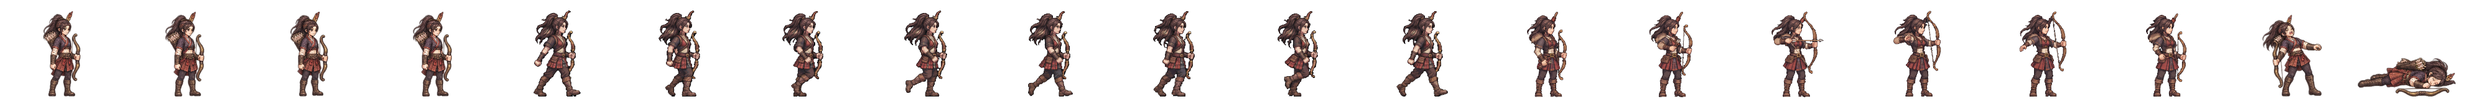
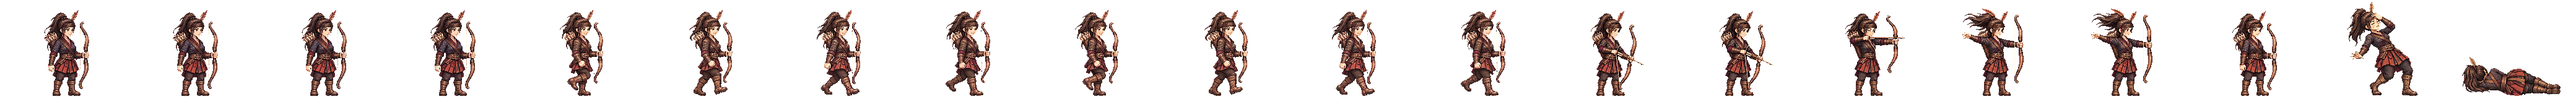
고구려 미르 전투 띠를 새 방식으로: 서기·걷기(뒤 절반을 앞 절반으로)·활 쏘기 네 칸·개성 동작·쓰러짐·맞음 (Codex 그림 · 활 쏘기는 한 번 다시 받음 · 활 길이 서기의 75~93%) · 옛 _hd 연결 지움
Claude-Session: https://claude.ai/code/session_01TRiuN7s6aDfSnaHxrkctmU

diff --git a/src/realm/data/spritePx.ts b/src/realm/data/spritePx.ts
@@ -1,3 +1,3 @@
 /** public/realm/anim-px/manifest.json 의 사본 — tools/sprite-normalize.mjs 가 만든다 (손으로 고치지 말 것). 칸 [가로, 세로] · feet = 발 줄(칸 위에서 y) · bodyPx = 서 있는 몸 키 */
 import { expandManifest } from './sprite-manifest.ts'
-export const SPRITE_PX: Readonly<Record<string, { readonly cell: readonly [number, number]; readonly feet: number; readonly bodyPx: number; readonly kind: 'general' | 'soldier' | 'folk' | 'crowd'; readonly cells: number }>> = expandManifest<{ readonly cell: readonly [number, number]; readonly feet: number; readonly bodyPx: number; readonly kind: 'general' | 'soldier' | 'folk' | 'crowd'; readonly cells: number }>([{"cell":[166,128],"feet":126,"bodyPx":124,"kind":"soldier","cells":20},{"cell":[116,128],"feet":126,"bodyPx":117,"kind":"soldier","cells":20},{"cell":[127,128],"feet":126,"bodyPx":116,"kind":"soldier","cells":20},{"cell":[269,128],"feet":126,"bodyPx":126,"kind":"soldier","cells":20},{"cell":[503,128],"feet":126,"bodyPx":127,"kind":"soldier","cells":20},{"cell":[614,128],"feet":126,"bodyPx":126,"kind":"soldier","cells":20},{"cell":[200,160],"feet":156,"bodyPx":138,"kind":"general","cells":20},{"cell":[208,160],"feet":155,"bodyPx":138,"kind":"general","cells":20},{"cell":[208,160],"feet":154,"bodyPx":138,"kind":"general","cells":20},{"cell":[304,160],"feet":155,"bodyPx":135,"kind":"general","cells":20},{"cell":[184,160],"feet":156,"bodyPx":138,"kind":"general","cells":20},{"cell":[208,160],"feet":154,"bodyPx":136,"kind":"general","cells":20},{"cell":[232,160],"feet":156,"bodyPx":138,"kind":"general","cells":20},{"cell":[208,160],"feet":156,"bodyPx":138,"kind":"general","cells":20},{"cell":[168,160],"feet":156,"bodyPx":124,"kind":"general","cells":20},{"cell":[216,160],"feet":156,"bodyPx":130,"kind":"general","cells":20},{"cell":[200,160],"feet":156,"bodyPx":116,"kind":"general","cells":20},{"cell":[192,160],"feet":156,"bodyPx":138,"kind":"general","cells":20},{"cell":[208,160],"feet":154,"bodyPx":135,"kind":"general","cells":20},{"cell":[280,160],"feet":156,"bodyPx":138,"kind":"general","cells":20},{"cell":[232,160],"feet":156,"bodyPx":134,"kind":"general","cells":20},{"cell":[144,160],"feet":156,"bodyPx":70,"kind":"general","cells":20},{"cell":[208,160],"feet":156,"bodyPx":70,"kind":"general","cells":20},{"cell":[192,160],"feet":156,"bodyPx":70,"kind":"general","cells":20},{"cell":[240,160],"feet":155,"bodyPx":138,"kind":"general","cells":20},{"cell":[192,160],"feet":156,"bodyPx":128,"kind":"general","cells":20},{"cell":[208,160],"feet":154,"bodyPx":137,"kind":"general","cells":20},{"cell":[216,160],"feet":156,"bodyPx":138,"kind":"general","cells":20},{"cell":[208,160],"feet":156,"bodyPx":134,"kind":"general","cells":20},{"cell":[208,160],"feet":154,"bodyPx":130,"kind":"general","cells":20},{"cell":[248,160],"feet":156,"bodyPx":138,"kind":"general","cells":20},{"cell":[248,160],"feet":155,"bodyPx":138,"kind":"general","cells":20},{"cell":[192,160],"feet":155,"bodyPx":138,"kind":"general","cells":20},{"cell":[192,160],"feet":156,"bodyPx":124,"kind":"general","cells":20},{"cell":[208,160],"feet":154,"bodyPx":131,"kind":"general","cells":20},{"cell":[240,160],"feet":156,"bodyPx":138,"kind":"general","cells":20},{"cell":[232,160],"feet":156,"bodyPx":73,"kind":"general","cells":20},{"cell":[224,160],"feet":156,"bodyPx":138,"kind":"general","cells":20},{"cell":[224,160],"feet":156,"bodyPx":128,"kind":"general","cells":20},{"cell":[176,160],"feet":156,"bodyPx":129,"kind":"general","cells":20},{"cell":[208,160],"feet":154,"bodyPx":139,"kind":"general","cells":20},{"cell":[232,160],"feet":155,"bodyPx":138,"kind":"general","cells":20},{"cell":[208,160],"feet":156,"bodyPx":132,"kind":"general","cells":20},{"cell":[184,160],"feet":156,"bodyPx":122,"kind":"general","cells":20},{"cell":[280,160],"feet":155,"bodyPx":133,"kind":"general","cells":20},{"cell":[176,160],"feet":156,"bodyPx":70,"kind":"general","cells":20},{"cell":[186,128],"feet":126,"bodyPx":127,"kind":"soldier","cells":20},{"cell":[298,128],"feet":126,"bodyPx":126,"kind":"soldier","cells":20},{"cell":[82,128],"feet":126,"bodyPx":114,"kind":"folk","cells":8},{"cell":[134,128],"feet":126,"bodyPx":119,"kind":"soldier","cells":20},{"cell":[380,128],"feet":126,"bodyPx":124,"kind":"soldier","cells":20},{"cell":[114,128],"feet":126,"bodyPx":115,"kind":"soldier","cells":20},{"cell":[122,128],"feet":126,"bodyPx":114,"kind":"soldier","cells":20},{"cell":[254,128],"feet":126,"bodyPx":128,"kind":"soldier","cells":20},{"cell":[438,128],"feet":126,"bodyPx":126,"kind":"soldier","cells":20},{"cell":[88,128],"feet":126,"bodyPx":113,"kind":"folk","cells":8},{"cell":[100,128],"feet":126,"bodyPx":115,"kind":"folk","cells":8},{"cell":[108,128],"feet":126,"bodyPx":115,"kind":"folk","cells":8},{"cell":[63,128],"feet":126,"bodyPx":113,"kind":"folk","cells":8},{"cell":[69,96],"feet":96,"bodyPx":96,"kind":"crowd","cells":1},{"cell":[54,96],"feet":96,"bodyPx":96,"kind":"crowd","cells":1},{"cell":[47,96],"feet":96,"bodyPx":96,"kind":"crowd","cells":1},{"cell":[49,96],"feet":96,"bodyPx":96,"kind":"crowd","cells":1},{"cell":[57,96],"feet":96,"bodyPx":96,"kind":"crowd","cells":1},{"cell":[55,96],"feet":96,"bodyPx":96,"kind":"crowd","cells":1},{"cell":[45,96],"feet":96,"bodyPx":96,"kind":"crowd","cells":1},{"cell":[53,96],"feet":96,"bodyPx":96,"kind":"crowd","cells":1},{"cell":[64,96],"feet":96,"bodyPx":96,"kind":"crowd","cells":1},{"cell":[264,160],"feet":156,"bodyPx":138,"kind":"general","cells":20},{"cell":[184,160],"feet":156,"bodyPx":124,"kind":"general","cells":20},{"cell":[256,160],"feet":156,"bodyPx":138,"kind":"general","cells":20},{"cell":[208,160],"feet":154,"bodyPx":134,"kind":"general","cells":20},{"cell":[224,160],"feet":156,"bodyPx":133,"kind":"general","cells":20},{"cell":[184,160],"feet":156,"bodyPx":137,"kind":"general","cells":20},{"cell":[176,160],"feet":156,"bodyPx":130,"kind":"general","cells":20},{"cell":[216,160],"feet":156,"bodyPx":134,"kind":"general","cells":20},{"cell":[216,160],"feet":156,"bodyPx":132,"kind":"general","cells":20},{"cell":[288,160],"feet":156,"bodyPx":138,"kind":"general","cells":20},{"cell":[192,160],"feet":156,"bodyPx":118,"kind":"general","cells":20},{"cell":[208,160],"feet":154,"bodyPx":132,"kind":"general","cells":20},{"cell":[208,160],"feet":154,"bodyPx":128,"kind":"general","cells":20},{"cell":[240,160],"feet":156,"bodyPx":128,"kind":"general","cells":20},{"cell":[184,160],"feet":156,"bodyPx":132,"kind":"general","cells":20},{"cell":[208,160],"feet":156,"bodyPx":123,"kind":"general","cells":20},{"cell":[192,160],"feet":156,"bodyPx":135,"kind":"general","cells":20},{"cell":[176,160],"feet":156,"bodyPx":116,"kind":"general","cells":20},{"cell":[272,160],"feet":156,"bodyPx":138,"kind":"general","cells":20},{"cell":[176,160],"feet":156,"bodyPx":138,"kind":"general","cells":20},{"cell":[176,160],"feet":156,"bodyPx":122,"kind":"general","cells":20},{"cell":[232,160],"feet":156,"bodyPx":127,"kind":"general","cells":20},{"cell":[184,160],"feet":156,"bodyPx":134,"kind":"general","cells":20},{"cell":[168,160],"feet":156,"bodyPx":138,"kind":"general","cells":20},{"cell":[176,160],"feet":156,"bodyPx":137,"kind":"general","cells":20},{"cell":[184,160],"feet":156,"bodyPx":133,"kind":"general","cells":20}],[["axe",0],["bandit-chief",1],["bandit-club",2],["boat",3],["bow",4],["crossbow",5],["gen-adogan",6],["gen-alpyeong",7],["gen-ara",8],["gen-areum",8],["gen-aryeong",9],["gen-bakdal",8],["gen-baram",8],["gen-bdanbi",10],["gen-beom",11],["gen-beombal",8],["gen-beomi",8],["gen-bira",12],["gen-biryu",13],["gen-budeul",8],["gen-byeol",8],["gen-daemusin",14],["gen-daeso",15],["gen-dallae2",8],["gen-dalli",8],["gen-damul",16],["gen-danbi",8],["gen-dangung",17],["gen-darae",18],["gen-dokmudeom",8],["gen-duman",19],["gen-eomni",8],["gen-eureum",20],["gen-g-bow",21],["gen-g-spear",22],["gen-g-sword",23],["gen-gaennae",8],["gen-gamsil",24],["gen-gaon",18],["gen-geota",13],["gen-geumbawi",10],["gen-geumha",25],["gen-goeun",8],["gen-gom",8],["gen-gomok",13],["gen-gureum",8],["gen-guryema",17],["gen-gwaeyu",12],["gen-haebi",8],["gen-haedal",6],["gen-haesol",8],["gen-halla",26],["gen-heo",8],["gen-hneoul",27],["gen-hogong",27],["gen-hojin",13],["gen-horselord",28],["gen-hwalmi",29],["gen-hyeokgeose",17],["gen-hyeopbo",6],["gen-irang",8],["gen-jibaekho",30],["gen-jinha",31],["gen-jita",32],["gen-jumong",33],["gen-keundol",7],["gen-maehwa",34],["gen-maenun",17],["gen-malgalgi",8],["gen-mari",35],["gen-maro",30],["gen-maryeo",13],["gen-mdallae",8],["gen-mir",6],["gen-mount",36],["gen-mulbeom",26],["gen-mulsae",26],["gen-musoe",27],["gen-noeul",8],["gen-nuri",8],["gen-ocheongan",37],["gen-odi",8],["gen-odogan",6],["gen-ogan",17],["gen-oi",38],["gen-olddaeso",20],["gen-onjo",39],["gen-pidogan",13],["gen-sagong",40],["gen-sdallae",8],["gen-sincheongan",8],["gen-singwigan",27],["gen-sinneoul",8],["gen-sobeol",41],["gen-soebi",8],["gen-soebo",42],["gen-soenun",40],["gen-sogeumbi",26],["gen-songbi",8],["gen-songyang",43],["gen-sori",8],["gen-soseono",44],["gen-suro",17],["gen-tahae",6],["gen-tneoul",8],["gen-w-bow",21],["gen-w-spear",45],["gen-waechief",13],["gen-wan",27],["gen-yeodogan",13],["gen-yucheongan",8],["gen-yusugan",30],["horse",46],["marine",47],["migrant",48],["militia",49],["pike",50],["pirate-captain",51],["pirate-sword",52],["shield",53],["spear",54],["villager-builder",55],["villager-farmer",56],["villager-porter",57],["villager-woman",58],["crowd-b1",59],["crowd-b2",60],["crowd-b3",61],["crowd-b4",62],["crowd-b5",63],["crowd-b6",64],["crowd-f1",59],["crowd-f2",64],["crowd-f3",65],["crowd-f4",66],["crowd-f5",59],["crowd-f6",67],["gen-dalbit",13],["gen-base-g-07-drunk-warrior",17],["gen-base-g-40-anya-adan",13],["gen-base-w-13-young-archer",8],["gen-base-g-03-sea-trader",35],["gen-base-w-10-pirate-captain",40],["gen-base-w-64-miri-dallae",40],["gen-base-g-41-goja-bau",35],["gen-base-g-42-dokro-garam",68],["gen-base-g-09-farmer-conscript",27],["gen-base-w-02-goguryeo-lady",8],["gen-base-w-17-mahan-pearl-diver",8],["gen-base-g-17-saro-isageum",42],["gen-base-g-18-daegaya-king",69],["gen-base-g-35-dabeol-dalgu",13],["gen-base-g-19-sabeol-veteran",27],["gen-base-w-23-usisan-whale-queen",8],["gen-base-g-36-gammun-gamdol",37],["gen-base-g-20-samul-sea-lord",70],["gen-base-g-37-eumjeup-jeup",10],["gen-base-g-38-chopal-palmae",17],["gen-base-w-75-daegaya-soemoe",8],["gen-base-g-45-dabeol-deulgae",10],["gen-base-g-04-jinhan-giant",13],["gen-base-g-08-veteran",13],["gen-base-w-18-jinhan-salt-widow",8],["gen-base-w-12-court-dancer",71],["gen-base-w-83-gyeonji-beodeul",72],["gen-base-w-05-baekje-queen",18],["gen-base-w-21-baekje-court-dancer",10],["gen-base-g-01-master-smith",73],["gen-base-g-93-jomun-solgae",74],["gen-base-g-57-bihwa-neup",35],["gen-base-w-72-eumjeup-beol",8],["gen-base-w-102-garak-dana",40],["gen-base-g-68-baekje-onnuri",13],["gen-base-w-27-mokji-jinha",6],["gen-base-g-22-ungcheon-gomnae",6],["gen-base-g-23-sangdang-soedal",13],["gen-base-g-24-wansan-onsan",6],["gen-base-g-25-balla-keunmoe",27],["gen-base-g-61-heomcheuk-bawi",27],["gen-base-g-88-wander-soeul",37],["gen-base-w-14-feast-spy",8],["gen-base-g-12-silla-youth",75],["gen-base-w-08-mahan-warrior",8],["gen-base-g-62-beonye-hanul",35],["gen-base-g-63-heomcheuk-beogeum",13],["gen-base-g-84-wander-seoneul",13],["gen-base-w-50-siljik-mulga",27],["gen-base-g-46-uga-nureongso",27],["gen-base-w-80-usan-gangchi",40],["gen-base-g-47-guga-sanyanggae",27],["gen-base-w-76-gampyeong-baetsagong",8],["gen-base-g-05-mahan-chieftain",76],["gen-base-g-58-usan-uhae",13],["gen-base-g-27-maek-maekdol",13],["gen-base-w-53-hwanna-gabi",40],["gen-base-w-29-golpo-janmul",30],["gen-base-g-53-baekje-haeru",6],["gen-base-w-71-yeonna-neoul",8],["gen-base-w-79-yangmaek-solmae",8],["gen-base-w-34-chopal-deulme",8],["gen-base-g-44-maga-malgup",77],["gen-base-w-31-dabeol-dalbit",40],["gen-base-g-51-biryuna-mulgyeol",37],["gen-base-g-48-gwanna-musoe",13],["gen-base-g-32-uga-sodu",12],["gen-base-g-49-goguryeo-sona",78],["gen-base-g-30-gwanna-soemoe",37],["gen-base-g-52-tamna-oreum",10],["gen-base-g-29-yeonna-myeongsol",33],["gen-base-w-56-dongokjeo-sogeum",71],["gen-base-g-54-mokji-mahan",12],["gen-base-g-33-jeoga-metdol",17],["gen-base-w-36-baekje-maena",8],["gen-base-w-38-sangdang-bulmae",40],["gen-base-w-39-gosaburi-galmae",8],["gen-base-w-40-mujin-munui",79],["gen-base-w-41-hwanna-beodeul",80],["gen-base-w-43-uga-nuri",70],["gen-base-w-45-tamna-oreumbi",10],["gen-base-g-60-golbeol-golgae",10],["gen-base-g-61-apdok-ap",27],["gen-base-g-62-gammun-gamnamu",6],["gen-base-g-63-chopal-yeoul",30],["gen-base-g-64-michuhol-sogeumkkun",35],["gen-base-g-65-sangdang-soemangchi",37],["gen-base-g-66-geonma-malbalgup",81],["gen-base-g-67-gosaburi-buri",82],["gen-base-g-68-mujin-bitgoeul",10],["gen-base-g-69-goryong-yong",37],["gen-base-g-70-siljik-pado",35],["gen-base-w-81-byeokjin-byeolbit",8],["gen-base-w-46-geonma-maru",8],["gen-base-w-48-mujin-mudeung",8],["gen-base-g-26-gampyeong-gaetbeol",12],["gen-base-g-60-eupcha-hangyeol",83],["gen-base-g-15-shaman-man",27],["gen-base-g-85-wander-ure",30],["gen-base-g-43-hwanna-amnok",13],["gen-base-g-50-bullae-gwaha",84],["gen-base-g-55-saro-bakdal",13],["gen-base-g-56-haseulla-gwahama",6],["gen-base-w-06-buyeo-huntress",26],["gen-base-w-22-dongye-tiger-huntress",8],["gen-base-w-25-bihwa-priestess",8],["gen-base-w-24-apdok-queen",8],["gen-base-w-61-iseo-sinae",8],["gen-base-w-26-iseo-tomboy-general",8],["gen-base-g-59-yangmaek-maekson",85],["gen-aw1-haebi",37],["gen-aw1-soseono",86],["gen-aw1-gamsil",10],["gen-aw1-mir",87],["gen-aw1-dangung",6],["gen-aw1-ara",37],["gen-aw1-jumong",88],["gen-aw1-onjo",89],["gen-aw1-base-w-83-gyeonji-beodeul",17],["gen-aw1-heo",68],["gen-aw1-base-g-38-chopal-palmae",6],["gen-aw1-base-w-25-bihwa-priestess",90],["gen-aw1-sori",91],["gen-aw1-gomok",6],["gen-aw1-irang",17],["gen-aw1-budeul",91],["gen-aw1-gom",35],["gen-aw1-sdallae",6],["gen-aw1-base-w-13-young-archer",6],["gen-aw1-base-w-36-baekje-maena",92],["gen-aw1-base-g-09-farmer-conscript",68],["gen-aw1-base-w-02-goguryeo-lady",93],["gen-aw1-haedal",10],["gen-aw1-hogong",6],["gen-aw1-maehwa",87],["gen-aw1-base-w-06-buyeo-huntress",12],["gen-aw1-base-w-08-mahan-warrior",37],["gen-aw1-base-w-29-golpo-janmul",37],["gen-aw1-base-w-31-dabeol-dalbit",17],["gen-aw1-base-w-38-sangdang-bulmae",91],["gen-aw1-bira",27],["gen-aw1-base-w-53-hwanna-gabi",91],["gen-aw1-base-w-56-dongokjeo-sogeum",87],["gen-aw1-base-w-72-eumjeup-beol",17],["gen-aw1-bdanbi",91],["gen-aw1-beom",10],["gen-aw1-beombal",10],["gen-aw1-byeol",17],["gen-aw1-dalli",87],["gen-aw1-malgalgi",30],["gen-aw1-sincheongan",27]])
+export const SPRITE_PX: Readonly<Record<string, { readonly cell: readonly [number, number]; readonly feet: number; readonly bodyPx: number; readonly kind: 'general' | 'soldier' | 'folk' | 'crowd'; readonly cells: number }>> = expandManifest<{ readonly cell: readonly [number, number]; readonly feet: number; readonly bodyPx: number; readonly kind: 'general' | 'soldier' | 'folk' | 'crowd'; readonly cells: number }>([{"cell":[166,128],"feet":126,"bodyPx":124,"kind":"soldier","cells":20},{"cell":[116,128],"feet":126,"bodyPx":117,"kind":"soldier","cells":20},{"cell":[127,128],"feet":126,"bodyPx":116,"kind":"soldier","cells":20},{"cell":[269,128],"feet":126,"bodyPx":126,"kind":"soldier","cells":20},{"cell":[503,128],"feet":126,"bodyPx":127,"kind":"soldier","cells":20},{"cell":[614,128],"feet":126,"bodyPx":126,"kind":"soldier","cells":20},{"cell":[200,160],"feet":156,"bodyPx":138,"kind":"general","cells":20},{"cell":[208,160],"feet":155,"bodyPx":138,"kind":"general","cells":20},{"cell":[208,160],"feet":154,"bodyPx":138,"kind":"general","cells":20},{"cell":[304,160],"feet":155,"bodyPx":135,"kind":"general","cells":20},{"cell":[184,160],"feet":156,"bodyPx":138,"kind":"general","cells":20},{"cell":[208,160],"feet":154,"bodyPx":136,"kind":"general","cells":20},{"cell":[232,160],"feet":156,"bodyPx":138,"kind":"general","cells":20},{"cell":[208,160],"feet":156,"bodyPx":138,"kind":"general","cells":20},{"cell":[168,160],"feet":156,"bodyPx":124,"kind":"general","cells":20},{"cell":[216,160],"feet":156,"bodyPx":130,"kind":"general","cells":20},{"cell":[200,160],"feet":156,"bodyPx":116,"kind":"general","cells":20},{"cell":[192,160],"feet":156,"bodyPx":138,"kind":"general","cells":20},{"cell":[208,160],"feet":154,"bodyPx":135,"kind":"general","cells":20},{"cell":[280,160],"feet":156,"bodyPx":138,"kind":"general","cells":20},{"cell":[232,160],"feet":156,"bodyPx":134,"kind":"general","cells":20},{"cell":[144,160],"feet":156,"bodyPx":70,"kind":"general","cells":20},{"cell":[208,160],"feet":156,"bodyPx":70,"kind":"general","cells":20},{"cell":[192,160],"feet":156,"bodyPx":70,"kind":"general","cells":20},{"cell":[240,160],"feet":155,"bodyPx":138,"kind":"general","cells":20},{"cell":[192,160],"feet":156,"bodyPx":128,"kind":"general","cells":20},{"cell":[208,160],"feet":154,"bodyPx":137,"kind":"general","cells":20},{"cell":[216,160],"feet":156,"bodyPx":138,"kind":"general","cells":20},{"cell":[208,160],"feet":156,"bodyPx":134,"kind":"general","cells":20},{"cell":[208,160],"feet":154,"bodyPx":130,"kind":"general","cells":20},{"cell":[248,160],"feet":156,"bodyPx":138,"kind":"general","cells":20},{"cell":[248,160],"feet":155,"bodyPx":138,"kind":"general","cells":20},{"cell":[192,160],"feet":155,"bodyPx":138,"kind":"general","cells":20},{"cell":[192,160],"feet":156,"bodyPx":124,"kind":"general","cells":20},{"cell":[208,160],"feet":154,"bodyPx":131,"kind":"general","cells":20},{"cell":[240,160],"feet":156,"bodyPx":138,"kind":"general","cells":20},{"cell":[232,160],"feet":156,"bodyPx":73,"kind":"general","cells":20},{"cell":[224,160],"feet":156,"bodyPx":138,"kind":"general","cells":20},{"cell":[224,160],"feet":156,"bodyPx":128,"kind":"general","cells":20},{"cell":[176,160],"feet":156,"bodyPx":129,"kind":"general","cells":20},{"cell":[208,160],"feet":154,"bodyPx":139,"kind":"general","cells":20},{"cell":[232,160],"feet":155,"bodyPx":138,"kind":"general","cells":20},{"cell":[208,160],"feet":156,"bodyPx":132,"kind":"general","cells":20},{"cell":[184,160],"feet":156,"bodyPx":122,"kind":"general","cells":20},{"cell":[280,160],"feet":155,"bodyPx":133,"kind":"general","cells":20},{"cell":[176,160],"feet":156,"bodyPx":70,"kind":"general","cells":20},{"cell":[186,128],"feet":126,"bodyPx":127,"kind":"soldier","cells":20},{"cell":[298,128],"feet":126,"bodyPx":126,"kind":"soldier","cells":20},{"cell":[82,128],"feet":126,"bodyPx":114,"kind":"folk","cells":8},{"cell":[134,128],"feet":126,"bodyPx":119,"kind":"soldier","cells":20},{"cell":[380,128],"feet":126,"bodyPx":124,"kind":"soldier","cells":20},{"cell":[114,128],"feet":126,"bodyPx":115,"kind":"soldier","cells":20},{"cell":[122,128],"feet":126,"bodyPx":114,"kind":"soldier","cells":20},{"cell":[254,128],"feet":126,"bodyPx":128,"kind":"soldier","cells":20},{"cell":[438,128],"feet":126,"bodyPx":126,"kind":"soldier","cells":20},{"cell":[88,128],"feet":126,"bodyPx":113,"kind":"folk","cells":8},{"cell":[100,128],"feet":126,"bodyPx":115,"kind":"folk","cells":8},{"cell":[108,128],"feet":126,"bodyPx":115,"kind":"folk","cells":8},{"cell":[63,128],"feet":126,"bodyPx":113,"kind":"folk","cells":8},{"cell":[69,96],"feet":96,"bodyPx":96,"kind":"crowd","cells":1},{"cell":[54,96],"feet":96,"bodyPx":96,"kind":"crowd","cells":1},{"cell":[47,96],"feet":96,"bodyPx":96,"kind":"crowd","cells":1},{"cell":[49,96],"feet":96,"bodyPx":96,"kind":"crowd","cells":1},{"cell":[57,96],"feet":96,"bodyPx":96,"kind":"crowd","cells":1},{"cell":[55,96],"feet":96,"bodyPx":96,"kind":"crowd","cells":1},{"cell":[45,96],"feet":96,"bodyPx":96,"kind":"crowd","cells":1},{"cell":[53,96],"feet":96,"bodyPx":96,"kind":"crowd","cells":1},{"cell":[64,96],"feet":96,"bodyPx":96,"kind":"crowd","cells":1},{"cell":[264,160],"feet":156,"bodyPx":138,"kind":"general","cells":20},{"cell":[184,160],"feet":156,"bodyPx":124,"kind":"general","cells":20},{"cell":[256,160],"feet":156,"bodyPx":138,"kind":"general","cells":20},{"cell":[208,160],"feet":154,"bodyPx":134,"kind":"general","cells":20},{"cell":[224,160],"feet":156,"bodyPx":133,"kind":"general","cells":20},{"cell":[184,160],"feet":156,"bodyPx":137,"kind":"general","cells":20},{"cell":[176,160],"feet":156,"bodyPx":130,"kind":"general","cells":20},{"cell":[216,160],"feet":156,"bodyPx":134,"kind":"general","cells":20},{"cell":[216,160],"feet":156,"bodyPx":132,"kind":"general","cells":20},{"cell":[288,160],"feet":156,"bodyPx":138,"kind":"general","cells":20},{"cell":[192,160],"feet":156,"bodyPx":118,"kind":"general","cells":20},{"cell":[208,160],"feet":154,"bodyPx":132,"kind":"general","cells":20},{"cell":[208,160],"feet":154,"bodyPx":128,"kind":"general","cells":20},{"cell":[240,160],"feet":156,"bodyPx":128,"kind":"general","cells":20},{"cell":[184,160],"feet":156,"bodyPx":132,"kind":"general","cells":20},{"cell":[208,160],"feet":156,"bodyPx":123,"kind":"general","cells":20},{"cell":[192,160],"feet":156,"bodyPx":135,"kind":"general","cells":20},{"cell":[176,160],"feet":156,"bodyPx":116,"kind":"general","cells":20},{"cell":[272,160],"feet":156,"bodyPx":138,"kind":"general","cells":20},{"cell":[176,160],"feet":156,"bodyPx":138,"kind":"general","cells":20},{"cell":[176,160],"feet":156,"bodyPx":122,"kind":"general","cells":20},{"cell":[232,160],"feet":156,"bodyPx":127,"kind":"general","cells":20},{"cell":[184,160],"feet":156,"bodyPx":134,"kind":"general","cells":20},{"cell":[168,160],"feet":156,"bodyPx":138,"kind":"general","cells":20},{"cell":[176,160],"feet":156,"bodyPx":137,"kind":"general","cells":20},{"cell":[184,160],"feet":156,"bodyPx":133,"kind":"general","cells":20}],[["axe",0],["bandit-chief",1],["bandit-club",2],["boat",3],["bow",4],["crossbow",5],["gen-adogan",6],["gen-alpyeong",7],["gen-ara",8],["gen-areum",8],["gen-aryeong",9],["gen-bakdal",8],["gen-baram",8],["gen-bdanbi",10],["gen-beom",11],["gen-beombal",8],["gen-beomi",8],["gen-bira",12],["gen-biryu",13],["gen-budeul",8],["gen-byeol",8],["gen-daemusin",14],["gen-daeso",15],["gen-dallae2",8],["gen-dalli",8],["gen-damul",16],["gen-danbi",8],["gen-dangung",17],["gen-darae",18],["gen-dokmudeom",8],["gen-duman",19],["gen-eomni",8],["gen-eureum",20],["gen-g-bow",21],["gen-g-spear",22],["gen-g-sword",23],["gen-gaennae",8],["gen-gamsil",24],["gen-gaon",18],["gen-geota",13],["gen-geumbawi",10],["gen-geumha",25],["gen-goeun",8],["gen-gom",8],["gen-gomok",13],["gen-gureum",8],["gen-guryema",17],["gen-gwaeyu",12],["gen-haebi",8],["gen-haedal",6],["gen-haesol",8],["gen-halla",26],["gen-heo",8],["gen-hneoul",27],["gen-hogong",27],["gen-hojin",13],["gen-horselord",28],["gen-hwalmi",29],["gen-hyeokgeose",17],["gen-hyeopbo",6],["gen-irang",8],["gen-jibaekho",30],["gen-jinha",31],["gen-jita",32],["gen-jumong",33],["gen-keundol",7],["gen-maehwa",34],["gen-maenun",17],["gen-malgalgi",8],["gen-mari",35],["gen-maro",30],["gen-maryeo",13],["gen-mdallae",8],["gen-mir",8],["gen-mount",36],["gen-mulbeom",26],["gen-mulsae",26],["gen-musoe",27],["gen-noeul",8],["gen-nuri",8],["gen-ocheongan",37],["gen-odi",8],["gen-odogan",6],["gen-ogan",17],["gen-oi",38],["gen-olddaeso",20],["gen-onjo",39],["gen-pidogan",13],["gen-sagong",40],["gen-sdallae",8],["gen-sincheongan",8],["gen-singwigan",27],["gen-sinneoul",8],["gen-sobeol",41],["gen-soebi",8],["gen-soebo",42],["gen-soenun",40],["gen-sogeumbi",26],["gen-songbi",8],["gen-songyang",43],["gen-sori",8],["gen-soseono",44],["gen-suro",17],["gen-tahae",6],["gen-tneoul",8],["gen-w-bow",21],["gen-w-spear",45],["gen-waechief",13],["gen-wan",27],["gen-yeodogan",13],["gen-yucheongan",8],["gen-yusugan",30],["horse",46],["marine",47],["migrant",48],["militia",49],["pike",50],["pirate-captain",51],["pirate-sword",52],["shield",53],["spear",54],["villager-builder",55],["villager-farmer",56],["villager-porter",57],["villager-woman",58],["crowd-b1",59],["crowd-b2",60],["crowd-b3",61],["crowd-b4",62],["crowd-b5",63],["crowd-b6",64],["crowd-f1",59],["crowd-f2",64],["crowd-f3",65],["crowd-f4",66],["crowd-f5",59],["crowd-f6",67],["gen-dalbit",13],["gen-base-g-07-drunk-warrior",17],["gen-base-g-40-anya-adan",13],["gen-base-w-13-young-archer",8],["gen-base-g-03-sea-trader",35],["gen-base-w-10-pirate-captain",40],["gen-base-w-64-miri-dallae",40],["gen-base-g-41-goja-bau",35],["gen-base-g-42-dokro-garam",68],["gen-base-g-09-farmer-conscript",27],["gen-base-w-02-goguryeo-lady",8],["gen-base-w-17-mahan-pearl-diver",8],["gen-base-g-17-saro-isageum",42],["gen-base-g-18-daegaya-king",69],["gen-base-g-35-dabeol-dalgu",13],["gen-base-g-19-sabeol-veteran",27],["gen-base-w-23-usisan-whale-queen",8],["gen-base-g-36-gammun-gamdol",37],["gen-base-g-20-samul-sea-lord",70],["gen-base-g-37-eumjeup-jeup",10],["gen-base-g-38-chopal-palmae",17],["gen-base-w-75-daegaya-soemoe",8],["gen-base-g-45-dabeol-deulgae",10],["gen-base-g-04-jinhan-giant",13],["gen-base-g-08-veteran",13],["gen-base-w-18-jinhan-salt-widow",8],["gen-base-w-12-court-dancer",71],["gen-base-w-83-gyeonji-beodeul",72],["gen-base-w-05-baekje-queen",18],["gen-base-w-21-baekje-court-dancer",10],["gen-base-g-01-master-smith",73],["gen-base-g-93-jomun-solgae",74],["gen-base-g-57-bihwa-neup",35],["gen-base-w-72-eumjeup-beol",8],["gen-base-w-102-garak-dana",40],["gen-base-g-68-baekje-onnuri",13],["gen-base-w-27-mokji-jinha",6],["gen-base-g-22-ungcheon-gomnae",6],["gen-base-g-23-sangdang-soedal",13],["gen-base-g-24-wansan-onsan",6],["gen-base-g-25-balla-keunmoe",27],["gen-base-g-61-heomcheuk-bawi",27],["gen-base-g-88-wander-soeul",37],["gen-base-w-14-feast-spy",8],["gen-base-g-12-silla-youth",75],["gen-base-w-08-mahan-warrior",8],["gen-base-g-62-beonye-hanul",35],["gen-base-g-63-heomcheuk-beogeum",13],["gen-base-g-84-wander-seoneul",13],["gen-base-w-50-siljik-mulga",27],["gen-base-g-46-uga-nureongso",27],["gen-base-w-80-usan-gangchi",40],["gen-base-g-47-guga-sanyanggae",27],["gen-base-w-76-gampyeong-baetsagong",8],["gen-base-g-05-mahan-chieftain",76],["gen-base-g-58-usan-uhae",13],["gen-base-g-27-maek-maekdol",13],["gen-base-w-53-hwanna-gabi",40],["gen-base-w-29-golpo-janmul",30],["gen-base-g-53-baekje-haeru",6],["gen-base-w-71-yeonna-neoul",8],["gen-base-w-79-yangmaek-solmae",8],["gen-base-w-34-chopal-deulme",8],["gen-base-g-44-maga-malgup",77],["gen-base-w-31-dabeol-dalbit",40],["gen-base-g-51-biryuna-mulgyeol",37],["gen-base-g-48-gwanna-musoe",13],["gen-base-g-32-uga-sodu",12],["gen-base-g-49-goguryeo-sona",78],["gen-base-g-30-gwanna-soemoe",37],["gen-base-g-52-tamna-oreum",10],["gen-base-g-29-yeonna-myeongsol",33],["gen-base-w-56-dongokjeo-sogeum",71],["gen-base-g-54-mokji-mahan",12],["gen-base-g-33-jeoga-metdol",17],["gen-base-w-36-baekje-maena",8],["gen-base-w-38-sangdang-bulmae",40],["gen-base-w-39-gosaburi-galmae",8],["gen-base-w-40-mujin-munui",79],["gen-base-w-41-hwanna-beodeul",80],["gen-base-w-43-uga-nuri",70],["gen-base-w-45-tamna-oreumbi",10],["gen-base-g-60-golbeol-golgae",10],["gen-base-g-61-apdok-ap",27],["gen-base-g-62-gammun-gamnamu",6],["gen-base-g-63-chopal-yeoul",30],["gen-base-g-64-michuhol-sogeumkkun",35],["gen-base-g-65-sangdang-soemangchi",37],["gen-base-g-66-geonma-malbalgup",81],["gen-base-g-67-gosaburi-buri",82],["gen-base-g-68-mujin-bitgoeul",10],["gen-base-g-69-goryong-yong",37],["gen-base-g-70-siljik-pado",35],["gen-base-w-81-byeokjin-byeolbit",8],["gen-base-w-46-geonma-maru",8],["gen-base-w-48-mujin-mudeung",8],["gen-base-g-26-gampyeong-gaetbeol",12],["gen-base-g-60-eupcha-hangyeol",83],["gen-base-g-15-shaman-man",27],["gen-base-g-85-wander-ure",30],["gen-base-g-43-hwanna-amnok",13],["gen-base-g-50-bullae-gwaha",84],["gen-base-g-55-saro-bakdal",13],["gen-base-g-56-haseulla-gwahama",6],["gen-base-w-06-buyeo-huntress",26],["gen-base-w-22-dongye-tiger-huntress",8],["gen-base-w-25-bihwa-priestess",8],["gen-base-w-24-apdok-queen",8],["gen-base-w-61-iseo-sinae",8],["gen-base-w-26-iseo-tomboy-general",8],["gen-base-g-59-yangmaek-maekson",85],["gen-aw1-haebi",37],["gen-aw1-soseono",86],["gen-aw1-gamsil",10],["gen-aw1-mir",87],["gen-aw1-dangung",6],["gen-aw1-ara",37],["gen-aw1-jumong",88],["gen-aw1-onjo",89],["gen-aw1-base-w-83-gyeonji-beodeul",17],["gen-aw1-heo",68],["gen-aw1-base-g-38-chopal-palmae",6],["gen-aw1-base-w-25-bihwa-priestess",90],["gen-aw1-sori",91],["gen-aw1-gomok",6],["gen-aw1-irang",17],["gen-aw1-budeul",91],["gen-aw1-gom",35],["gen-aw1-sdallae",6],["gen-aw1-base-w-13-young-archer",6],["gen-aw1-base-w-36-baekje-maena",92],["gen-aw1-base-g-09-farmer-conscript",68],["gen-aw1-base-w-02-goguryeo-lady",93],["gen-aw1-haedal",10],["gen-aw1-hogong",6],["gen-aw1-maehwa",87],["gen-aw1-base-w-06-buyeo-huntress",12],["gen-aw1-base-w-08-mahan-warrior",37],["gen-aw1-base-w-29-golpo-janmul",37],["gen-aw1-base-w-31-dabeol-dalbit",17],["gen-aw1-base-w-38-sangdang-bulmae",91],["gen-aw1-bira",27],["gen-aw1-base-w-53-hwanna-gabi",91],["gen-aw1-base-w-56-dongokjeo-sogeum",87],["gen-aw1-base-w-72-eumjeup-beol",17],["gen-aw1-bdanbi",91],["gen-aw1-beom",10],["gen-aw1-beombal",10],["gen-aw1-byeol",17],["gen-aw1-dalli",87],["gen-aw1-malgalgi",30],["gen-aw1-sincheongan",27]])

diff --git a/src/duel/view.ts b/src/duel/view.ts
@@ -100,7 +100,7 @@ const crowdFront = [1, 2, 3, 4, 5, 6].map((i) => img(`realm/duel/crowd/b${i}.png
 const crowdReady = (set: HTMLImageElement[]): boolean => set.every((im) => im.complete && im.naturalWidth > 0)
 const pxMode = cfg.px !== false && params.get('px') !== '0'
 /** 겨루기 전용 옛 띠(duel/sprites) 대신 열전과 같은 도트 띠(anim-px)를 쓰는 장수 — 두 판에서 같은 모습 · 서기 계획·쓰러지는 칸도 같다 (11-23 범 · 매화 · 달빛 · 11-24 해비 · 아룸) */
-const PX_DUEL: ReadonlySet<string> = new Set(['beom', 'maehwa', 'base-w-31-dabeol-dalbit', 'haebi', 'areum', 'base-w-13-young-archer', 'base-w-10-pirate-captain', 'base-w-17-mahan-pearl-diver', 'base-w-06-buyeo-huntress', 'base-w-64-miri-dallae', 'ara', 'base-w-22-dongye-tiger-huntress', 'noeul', 'sagong', 'sinneoul', 'heo', 'base-w-08-mahan-warrior', 'base-w-23-usisan-whale-queen', 'base-w-26-iseo-tomboy-general', 'base-w-72-eumjeup-beol', 'tneoul', 'odi', 'base-w-76-gampyeong-baetsagong', 'base-w-34-chopal-deulme', 'base-w-102-garak-dana', 'base-w-36-baekje-maena', 'base-w-56-dongokjeo-sogeum', 'budeul', 'base-w-53-hwanna-gabi', 'base-w-18-jinhan-salt-widow', 'beombal', 'irang', 'sogeumbi', 'baram', 'byeol', 'base-w-71-yeonna-neoul', 'base-w-39-gosaburi-galmae', 'base-w-41-hwanna-beodeul', 'base-w-79-yangmaek-solmae', 'base-w-46-geonma-maru', 'base-w-48-mujin-mudeung', 'base-w-80-usan-gangchi', 'base-w-81-byeokjin-byeolbit', 'beomi', 'danbi', 'dalli', 'gureum', 'haesol', 'soenun', 'eomni', 'mulbeom', 'mulsae', 'bakdal', 'darae', 'sori', 'base-w-12-court-dancer', 'hwalmi', 'gaennae', 'dokmudeom', 'base-w-14-feast-spy', 'base-w-25-bihwa-priestess', 'sincheongan', 'base-w-40-mujin-munui', 'halla', 'yucheongan', 'base-w-02-goguryeo-lady', 'gaon', 'base-w-24-apdok-queen', 'base-w-61-iseo-sinae', 'goeun', 'base-w-05-baekje-queen', 'mdallae', 'nuri', 'base-w-75-daegaya-soemoe', 'soebi', 'base-w-38-sangdang-bulmae', 'gom', 'songbi', 'malgalgi', 'dallae2', 'hneoul', 'sdallae'])
+const PX_DUEL: ReadonlySet<string> = new Set(['beom', 'maehwa', 'base-w-31-dabeol-dalbit', 'haebi', 'areum', 'base-w-13-young-archer', 'base-w-10-pirate-captain', 'base-w-17-mahan-pearl-diver', 'base-w-06-buyeo-huntress', 'base-w-64-miri-dallae', 'ara', 'base-w-22-dongye-tiger-huntress', 'noeul', 'sagong', 'sinneoul', 'heo', 'base-w-08-mahan-warrior', 'base-w-23-usisan-whale-queen', 'base-w-26-iseo-tomboy-general', 'base-w-72-eumjeup-beol', 'tneoul', 'odi', 'base-w-76-gampyeong-baetsagong', 'base-w-34-chopal-deulme', 'base-w-102-garak-dana', 'base-w-36-baekje-maena', 'base-w-56-dongokjeo-sogeum', 'budeul', 'base-w-53-hwanna-gabi', 'base-w-18-jinhan-salt-widow', 'beombal', 'irang', 'sogeumbi', 'baram', 'byeol', 'base-w-71-yeonna-neoul', 'base-w-39-gosaburi-galmae', 'base-w-41-hwanna-beodeul', 'base-w-79-yangmaek-solmae', 'base-w-46-geonma-maru', 'base-w-48-mujin-mudeung', 'base-w-80-usan-gangchi', 'base-w-81-byeokjin-byeolbit', 'beomi', 'danbi', 'dalli', 'gureum', 'haesol', 'soenun', 'eomni', 'mulbeom', 'mulsae', 'bakdal', 'darae', 'sori', 'base-w-12-court-dancer', 'hwalmi', 'gaennae', 'dokmudeom', 'base-w-14-feast-spy', 'base-w-25-bihwa-priestess', 'sincheongan', 'base-w-40-mujin-munui', 'halla', 'yucheongan', 'base-w-02-goguryeo-lady', 'gaon', 'base-w-24-apdok-queen', 'base-w-61-iseo-sinae', 'goeun', 'base-w-05-baekje-queen', 'mdallae', 'nuri', 'base-w-75-daegaya-soemoe', 'soebi', 'base-w-38-sangdang-bulmae', 'gom', 'songbi', 'malgalgi', 'dallae2', 'hneoul', 'sdallae', 'mir'])
 /** 띠 그림 — 기본은 anim-px(도트 규격) 먼저, 없으면 옛 띠로 (img 의 onerror 가 갈아 끼운다) */
 const strip = (s: string): HTMLImageElement => pxMode
   ? DUEL_ATLASES[s] !== undefined && !PX_DUEL.has(s) ? img(`realm/duel/sprites/gen-${s}.png`, `realm/anim-px/gen-${s}.png`)

diff --git a/src/tune/params.ts b/src/tune/params.ts
@@ -1542,6 +1542,7 @@ export const HAEBI_IDLE = {
     dallae2: { cells: 38, base: [0, 1], hold: 2.4, fall: [18, 20, 21, 19], quirk: [22, 23, 24, 25], quirkTimes: [.3, .32, .4, .28], attack: { cells: [26, 27, 28, 29, 30, 31, 32, 33], times: [.09, .08, .11, .05, .15, .07, .08, .12], hit: 4 }, hurt: [34, 35], rise: [36, 37], xGeom: { h: 224, root: 92, foot: 216 } },
     hneoul: { cells: 30, base: [0, 1], hold: 2.4, fall: [18, 20, 21, 19], quirk: [22, 23, 24, 25], quirkTimes: [.28, .3, .42, .25], hurt: [26, 27], rise: [28, 29] },
     sdallae: { cells: 26, base: [0, 1], hold: 2.4, fall: [18, 20, 21, 19], hurt: [22, 23], rise: [24, 25] },
+    mir: { cells: 30, base: [0, 1], hold: 2.4, fall: [18, 20, 21, 19], quirk: [22, 23, 24, 25], quirkTimes: [.28, .3, .42, .25], hurt: [26, 27], rise: [28, 29] },
   },
 } as const
 export const HAEBI_ANIM = {

diff --git a/src/raid/hero-hd.ts b/src/raid/hero-hd.ts
@@ -35,7 +35,6 @@ export const HERO_HD: Readonly<Record<string, string>> = {
   'anim-px/gen-gomok.png': 'anim-px/gen-gomok_hd.png',
   'anim-px/gen-aw1-base-g-38-chopal-palmae.png': 'anim-px/gen-aw1-base-g-38-chopal-palmae_hd.png',
   'anim-px/gen-base-g-38-chopal-palmae.png': 'anim-px/gen-base-g-38-chopal-palmae_hd.png',
-  'anim-px/gen-mir.png': 'anim-px/gen-mir_hd.png',
   'anim-px/gen-aw1-mir.png': 'anim-px/gen-aw1-mir_hd.png',
   'anim-px/gen-aw1-jumong.png': 'anim-px/gen-aw1-jumong_hd.png',
   'anim-px/gen-aw1-heo.png': 'anim-px/gen-aw1-heo_hd.png',

diff --git a/tools/sprite-kit/anim-harness.py b/tools/sprite-kit/anim-harness.py
@@ -76,6 +76,7 @@ HEROES = {
     'wan': dict(strip='gen-wan', atk='bow', atk8=False),   # 완산 완(활 · 가슴 M) · 아홉째 묶음
     'hneoul': dict(hit=True, strip='gen-hneoul', atk='bow', atk8=False),   # 행인 너울(활 · 가는 몸 · 가슴 M) · 열셋째 묶음
     'sdallae': dict(hit=True, strip='gen-sdallae', atk='bow', atk8=False),   # 사로 달래(활 · 가슴 M) · 열셋째 묶음
+    'mir': dict(hit=True, strip='gen-mir', atk='bow', atk8=False),   # 고구려 미르(활 · 가슴 M) · 열셋째 묶음
     'sogeum': dict(hit=True, strip='gen-base-w-56-dongokjeo-sogeum', atk='slash', atk8=True, act=True, legacy=(('a', 1), ('a', 3), ('b', 2), ('b', 4))),   # 동옥저 소금 상인(단검 · 가슴 XL) · 좁은 칸은 아라처럼 덜 뻗은 칸
     'budeul': dict(hit=True, strip='gen-budeul', atk='slash', atk8=True, act=True, legacy=(('a', 1), ('a', 3), ('b', 2), ('b', 4))),   # 골벌 부들(단검 · 가슴 L)
     'gabi': dict(hit=True, strip='gen-base-w-53-hwanna-gabi', atk='slash', atk8=True, act=True, legacy=(('a', 1), ('a', 3), ('b', 2), ('b', 4))),   # 환나 가비(단검 · 가슴 L)
